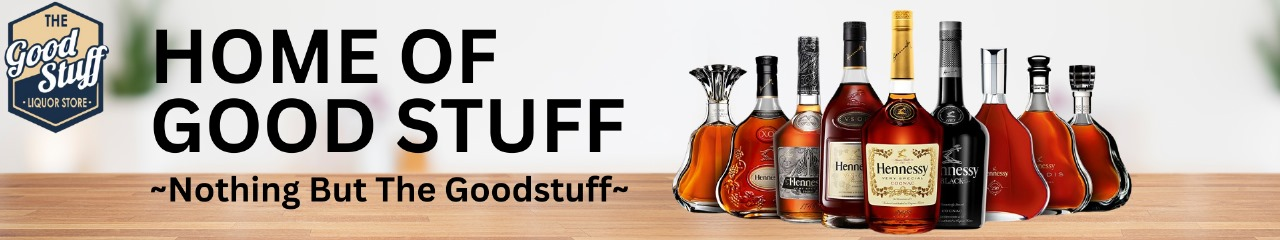
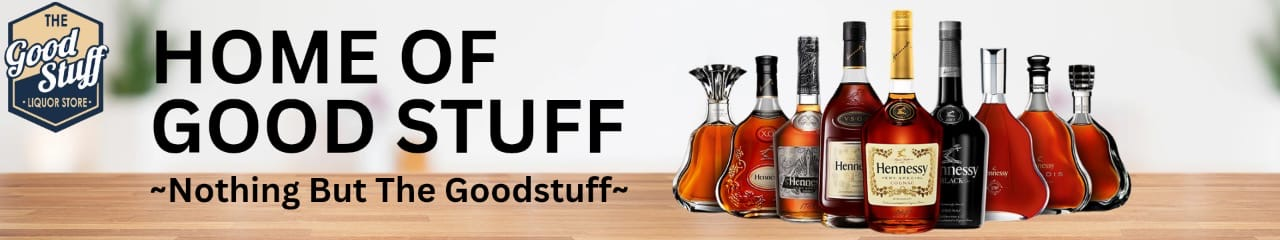
v59

diff --git a/app/products/ProductsList.tsx b/app/products/ProductsList.tsx
@@ -46,11 +46,15 @@ const ProductsList = React.memo(() => {
         setProducts(prev => [...prev, ...data]);
       } else {
         setProducts(data);
+        console.log(`Initial products loaded: ${data.length}`);
       }
       
       // If we got fewer products than expected, we've reached the end
       if (data.length < 1000) {
         setHasMore(false);
+        if (loadMore) {
+          console.log(`All products loaded. Total: ${products.length + data.length}`);
+        }
       }
       
       if (categoryParam) {
@@ -162,7 +166,7 @@ const ProductsList = React.memo(() => {
                 {product.category}
               </span>
             </div>
-            <h3 className="text-base md:text-lg font-bold text-gray-800 mb-3 h-12 md:h-14 overflow-hidden leading-tight group-hover:text-gray-600 transition-colors">
+            <h3 className="text-base md:text-lg font-bold text-gray-800 mb-3 leading-tight group-hover:text-gray-600 transition-colors line-clamp-2">
               {capitalizeProductName(product.name)}
             </h3>
             <div className="flex items-baseline mb-4">
@@ -207,14 +211,13 @@ const ProductsList = React.memo(() => {
         <div className="flex flex-col md:flex-row md:justify-between md:items-center mb-8 md:mb-12 space-y-4 md:space-y-0">
           <div>
             <h2 className="text-2xl md:text-3xl lg:text-4xl font-bold text-gray-900 mb-2">
-              Our Products
+              Available Products
             </h2>
             <p className="text-gray-600 text-sm md:text-base">
               {loading ? 'Loading products...' : (
                 <>
                   Showing {filteredProducts.length} products
                   {selectedCategory !== 'all' && ` in ${selectedCategory}`}
-                  {!hasMore && filteredProducts.length > 0 && ' (All products loaded)'}
                 </>
               )}
             </p>
@@ -252,7 +255,7 @@ const ProductsList = React.memo(() => {
                   
                   {/* Load More Button */}
                   {hasMore && selectedCategory === 'all' && (
-                    <div className="mt-8 md:mt-12 text-center">
+                    <div className="mt-8 md:pt-12 text-center">
                       <button
                         onClick={handleLoadMore}
                         disabled={loadingMore}
@@ -262,16 +265,6 @@ const ProductsList = React.memo(() => {
                       </button>
                     </div>
                   )}
-                  
-                  {/* Results Count */}
-                  <div className="mt-8 md:mt-12 text-center">
-                    <p className="text-gray-600 text-sm md:text-base">
-                      {!hasMore && selectedCategory === 'all' 
-                        ? `All ${filteredProducts.length} products loaded` 
-                        : `Showing ${filteredProducts.length} products`
-                      }
-                    </p>
-                  </div>
                 </>
               ) : (
                 /* No Products Found */

diff --git a/app/components/Hero.tsx b/app/components/Hero.tsx
@@ -10,13 +10,13 @@ const Hero: React.FC<HeroProps> = ({
   alt = "Hero Image"
 }) => {
   return (
-    <section className="relative w-full">
-      <div className="relative w-full h-[200px] sm:h-[300px] md:h-[400px] lg:h-[500px] xl:h-[600px]">
+    <section className="relative w-full pt-16">
+      <div className="relative w-full h-[150px] sm:h-[200px] md:h-[250px] lg:h-[300px] xl:h-[350px]">
         <Image
-          src="/"
+          src="/hero1.png"
           alt={alt}
           fill
-          className="object-cover object-center"
+          className="object-cover object-left"
           priority
           sizes="(max-width: 640px) 100vw, (max-width: 768px) 100vw, (max-width: 1024px) 100vw, 100vw"
         />

diff --git a/app/components/NewArrivals.tsx b/app/components/NewArrivals.tsx
@@ -77,7 +77,7 @@ const NewArrivals = React.memo(() => {
               Fresh Arrival
             </span>
           </div>
-          <h3 className="text-base font-bold text-gray-800 h-12 overflow-hidden mb-2 group-hover:text-gray-600 transition-colors leading-tight">
+          <h3 className="text-base font-bold text-gray-800 mb-2 group-hover:text-gray-600 transition-colors leading-tight line-clamp-2">
             {capitalizeProductName(product.name)}
           </h3>
           <div className="flex items-baseline mt-2 mb-4">

diff --git a/app/components/TrendingDeals.tsx b/app/components/TrendingDeals.tsx
@@ -79,7 +79,7 @@ const TrendingDeals = React.memo(() => {
               Hot Deal
             </span>
           </div>
-          <h3 className="text-base font-bold text-gray-800 h-12 overflow-hidden mb-2 group-hover:text-gray-600 transition-colors leading-tight">
+          <h3 className="text-base font-bold text-gray-800 mb-2 group-hover:text-gray-600 transition-colors leading-tight line-clamp-2">
             {capitalizeProductName(product.name)}
           </h3>
           <div className="flex items-baseline mt-2 mb-4">

diff --git a/app/components/PopularWines.tsx b/app/components/PopularWines.tsx
@@ -78,7 +78,7 @@ const PopularWines = React.memo(() => {
               Top Choice
             </span>
           </div>
-          <h3 className="text-base font-bold text-gray-800 h-12 overflow-hidden mb-2 group-hover:text-gray-600 transition-colors leading-tight">
+          <h3 className="text-base font-bold text-gray-800 mb-2 group-hover:text-gray-600 transition-colors leading-tight line-clamp-2">
             {capitalizeProductName(wine.name)}
           </h3>
           <div className="flex items-baseline mt-2 mb-4">

diff --git a/app/cream-liquers/page.tsx b/app/cream-liquers/page.tsx
@@ -72,7 +72,7 @@ export default async function CreamLiqueursPage() {
                   />
                 </div>
                 <div className="p-4">
-                  <h3 className="text-base font-semibold text-gray-800 h-12 overflow-hidden capitalize">
+                  <h3 className="text-base font-semibold text-gray-800 line-clamp-2 capitalize">
                     {product.name}
                   </h3>
                   <div className="flex items-baseline mt-2">

diff --git a/app/bourbon/page.tsx b/app/bourbon/page.tsx
@@ -72,7 +72,7 @@ export default async function BourbonPage() {
                   />
                 </div>
                 <div className="p-4">
-                  <h3 className="text-base font-semibold text-gray-800 h-12 overflow-hidden capitalize">
+                  <h3 className="text-base font-semibold text-gray-800 line-clamp-2 capitalize">
                     {product.name}
                   </h3>
                   <div className="flex items-baseline mt-2">

diff --git a/app/spirit/page.tsx b/app/spirit/page.tsx
@@ -73,7 +73,7 @@ export default async function SpiritPage() {
                   />
                 </div>
                 <div className="p-4">
-                  <h3 className="text-base font-semibold text-gray-800 h-12 overflow-hidden">
+                  <h3 className="text-base font-semibold text-gray-800 line-clamp-2">
                     {capitalizeProductName(product.name)}
                   </h3>
                   <div className="flex items-baseline mt-2">

diff --git a/app/vodka/page.tsx b/app/vodka/page.tsx
@@ -73,7 +73,7 @@ export default async function VodkaPage() {
                   />
                 </div>
                 <div className="p-4">
-                  <h3 className="text-base font-semibold text-gray-800 h-12 overflow-hidden">
+                  <h3 className="text-base font-semibold text-gray-800 line-clamp-2">
                     {capitalizeProductName(product.name)}
                   </h3>
                   <div className="flex items-baseline mt-2">

diff --git a/app/beer/page.tsx b/app/beer/page.tsx
@@ -73,7 +73,7 @@ export default async function BeerPage() {
                   />
                 </div>
                 <div className="p-4">
-                  <h3 className="text-base font-semibold text-gray-800 h-12 overflow-hidden">
+                  <h3 className="text-base font-semibold text-gray-800 line-clamp-2">
                     {capitalizeProductName(product.name)}
                   </h3>
                   <div className="flex items-baseline mt-2">

diff --git a/app/gin/page.tsx b/app/gin/page.tsx
@@ -73,7 +73,7 @@ export default async function GinPage() {
                   />
                 </div>
                 <div className="p-4">
-                  <h3 className="text-base font-semibold text-gray-800 h-12 overflow-hidden">
+                  <h3 className="text-base font-semibold text-gray-800 line-clamp-2">
                     {capitalizeProductName(product.name)}
                   </h3>
                   <div className="flex items-baseline mt-2">

diff --git a/tailwind.config.js b/tailwind.config.js
@@ -52,5 +52,7 @@ module.exports = {
       },
     },
   },
-  plugins: [],
+  plugins: [
+    require('@tailwindcss/line-clamp'),
+  ],
 } 
